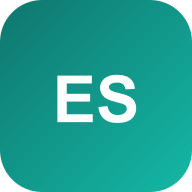
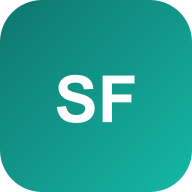
first commit

Changed region(s): [[0.2812, 0.375, 0.7188, 0.6562]]

diff --git a/src/components/landing/landing-page.tsx b/src/components/landing/landing-page.tsx
@@ -156,7 +156,7 @@ export function LandingPage() {
             >
               trabalho na segunda
             </span>
-            . O Easy Study te mostra{" "}
+            . O Study Flow te mostra{" "}
             <span
               className="hero-pill inline-block rounded-full bg-primary px-2.5 py-0.5 align-baseline text-[0.86em] text-primary-foreground"
               style={{ animationDelay: "520ms" }}
@@ -220,7 +220,7 @@ export function LandingPage() {
             </h2>
             <p className="mt-3 text-muted-foreground">
               Grupo da turma, bloco de notas, calendário do celular e uma planilha que ninguém
-              atualiza. O Easy Study junta a rotina acadêmica num fluxo só.
+              atualiza. O Study Flow junta a rotina acadêmica num fluxo só.
             </p>
           </Reveal>
 
@@ -458,7 +458,7 @@ function ProductPreview() {
         <div className="flex items-center justify-between gap-3 border-b border-white/10 px-4 py-3 sm:px-5">
           <div className="flex min-w-0 items-center gap-2">
             <AppLogo size={28} />
-            <span className="truncate text-sm font-medium">Easy Study</span>
+            <span className="truncate text-sm font-medium">Study Flow</span>
           </div>
           <div className="hidden items-center gap-4 text-xs text-sidebar-muted md:flex">
             <span className="text-sidebar-foreground">Início</span>
@@ -559,7 +559,7 @@ function ProductPreview() {
         </div>
       </div>
       <figcaption className="sr-only">
-        Prévia ilustrada do painel do Easy Study, com dados de exemplo.
+        Prévia ilustrada do painel do Study Flow, com dados de exemplo.
       </figcaption>
     </figure>
   );

diff --git a/src/lib/blog.ts b/src/lib/blog.ts
@@ -15,8 +15,8 @@ export type BlogPost = {
 
 export const BLOG_POSTS: BlogPost[] = [
   {
-    slug: "como-o-easy-study-funciona",
-    title: "Como o Easy Study funciona",
+    slug: "como-o-study-flow-funciona",
+    title: "Como o Study Flow funciona",
     description:
       "O mapa do semestre: conta, disciplinas, prazos, sessões, revisão e o que aparece quando você abre o início.",
     published: "2026-11-17",
@@ -25,7 +25,7 @@ export const BLOG_POSTS: BlogPost[] = [
     blocks: [
       {
         type: "p",
-        text: "O Easy Study guarda a rotina acadêmica num painel só. Você cria a conta, cadastra as disciplinas e passa a ver o que vence, o que estudar e o que já foi feito.",
+        text: "O Study Flow guarda a rotina acadêmica num painel só. Você cria a conta, cadastra as disciplinas e passa a ver o que vence, o que estudar e o que já foi feito.",
       },
       {
         type: "p",
@@ -281,7 +281,7 @@ export const BLOG_POSTS: BlogPost[] = [
     blocks: [
       {
         type: "p",
-        text: "A conta do Easy Study fica no Supabase. Disciplinas, prazos, sessões, revisões, flashcards e arquivos acompanham o login. A senha fica no serviço de autenticação, não no texto da anotação. Cada pessoa só lê o que o próprio login criou.",
+        text: "A conta do Study Flow fica no Supabase. Disciplinas, prazos, sessões, revisões, flashcards e arquivos acompanham o login. A senha fica no serviço de autenticação, não no texto da anotação. Cada pessoa só lê o que o próprio login criou.",
       },
       {
         type: "h2",

diff --git a/src/lib/seo.ts b/src/lib/seo.ts
@@ -2,7 +2,7 @@ import type { Metadata } from "next";
 import { APP_NAME } from "@/lib/constants";
 import { BLOG_POSTS, type BlogPost } from "@/lib/blog";
 
-export const HOME_TITLE = "Easy Study — organize provas e prazos de graça";
+export const HOME_TITLE = "Study Flow — organize provas e prazos de graça";
 
 export const HOME_DESCRIPTION =
   "Organize disciplinas, provas, revisões e horas de estudo num painel só. De graça, com a conta na nuvem, sem mensalidade. Crie a conta e veja o que estudar hoje.";
@@ -10,7 +10,7 @@ export const HOME_DESCRIPTION =
 export const BLOG_TITLE = "Guias para organizar o semestre";
 
 export const BLOG_DESCRIPTION =
-  "Como o Easy Study funciona de verdade: disciplinas, prazos, calendário, revisão, materiais e onde os dados ficam. Leia e crie a conta grátis.";
+  "Como o Study Flow funciona de verdade: disciplinas, prazos, calendário, revisão, materiais e onde os dados ficam. Leia e crie a conta grátis.";
 
 export const FAQS = [
   {

diff --git a/next.config.ts b/next.config.ts
@@ -5,6 +5,15 @@ import { withSerwist } from "@serwist/turbopack";
 const nextConfig: NextConfig = {
   cacheComponents: true,
   partialPrefetching: true,
+  async redirects() {
+    return [
+      {
+        source: "/blog/como-o-easy-study-funciona",
+        destination: "/blog/como-o-study-flow-funciona",
+        permanent: true,
+      },
+    ];
+  },
   turbopack: {
     root: path.join(__dirname),
     rules: {

diff --git a/src/app/(auth)/cadastro/layout.tsx b/src/app/(auth)/cadastro/layout.tsx
@@ -3,7 +3,7 @@ import { pageMetadata } from "@/lib/seo";
 export const metadata = pageMetadata({
   title: "Criar conta grátis",
   description:
-    "Crie sua conta no Easy Study e organize disciplinas, provas e sessões. Leva um minuto, sem cartão.",
+    "Crie sua conta no Study Flow e organize disciplinas, provas e sessões. Leva um minuto, sem cartão.",
   path: "/cadastro",
   image: "/opengraph-image",
 });

diff --git a/src/lib/db.ts b/src/lib/db.ts
@@ -10,7 +10,7 @@ import type {
   User,
 } from "@/types";
 
-class EasyStudyDB extends Dexie {
+class StudyFlowDB extends Dexie {
   users!: EntityTable<User, "id">;
   subjects!: EntityTable<Subject, "id">;
   activities!: EntityTable<Activity, "id">;
@@ -36,4 +36,4 @@ class EasyStudyDB extends Dexie {
   }
 }
 
-export const db = new EasyStudyDB();
+export const db = new StudyFlowDB();

diff --git a/src/app/opengraph-image.tsx b/src/app/opengraph-image.tsx
@@ -2,7 +2,7 @@ import { ImageResponse } from "next/og";
 import { OgCard } from "@/lib/og-card";
 import { HOME_DESCRIPTION } from "@/lib/seo";
 
-export const alt = "Easy Study — organize provas e prazos de graça";
+export const alt = "Study Flow — organize provas e prazos de graça";
 export const size = { width: 1200, height: 630 };
 export const contentType = "image/png";
 

diff --git a/src/components/site/site-footer.tsx b/src/components/site/site-footer.tsx
@@ -48,7 +48,7 @@ export function SiteFooter({ variant = "home" }: { variant?: "home" | "site" }) 
       </div>
       <div className="border-t border-border/70">
         <p className="mx-auto max-w-6xl px-4 py-4 text-xs text-muted-foreground">
-          © 2026 Easy Study
+          © 2026 {APP_NAME}
         </p>
       </div>
     </footer>

diff --git a/src/app/manifest.ts b/src/app/manifest.ts
@@ -4,7 +4,7 @@ import { APP_NAME } from "@/lib/constants";
 export default function manifest(): MetadataRoute.Manifest {
   return {
     name: APP_NAME,
-    short_name: "Easy Study",
+    short_name: APP_NAME,
     description:
       "Organize disciplinas, provas, revisões e sessões de estudo em um só lugar.",
     start_url: "/dashboard",

diff --git a/src/lib/og-card.tsx b/src/lib/og-card.tsx
@@ -13,7 +13,7 @@ export function OgCard({ title, subtitle }: { title: string; subtitle: string })
       }}
     >
       <div style={{ display: "flex", fontSize: 28, color: "#2dd4bf", fontWeight: 700 }}>
-        Easy Study
+        Study Flow
       </div>
       <div style={{ display: "flex", flexDirection: "column" }}>
         <div

diff --git a/src/app/blog/opengraph-image.tsx b/src/app/blog/opengraph-image.tsx
@@ -1,7 +1,7 @@
 import { ImageResponse } from "next/og";
 import { OgCard } from "@/lib/og-card";
 
-export const alt = "Guias do Easy Study para organizar o semestre";
+export const alt = "Guias do Study Flow para organizar o semestre";
 export const size = { width: 1200, height: 630 };
 export const contentType = "image/png";
 

diff --git a/src/app/(auth)/login/layout.tsx b/src/app/(auth)/login/layout.tsx
@@ -2,7 +2,7 @@ import { pageMetadata } from "@/lib/seo";
 
 export const metadata = pageMetadata({
   title: "Entrar",
-  description: "Entre na sua conta do Easy Study e continue de onde parou.",
+  description: "Entre na sua conta do Study Flow e continue de onde parou.",
   path: "/login",
   image: "/opengraph-image",
 });
